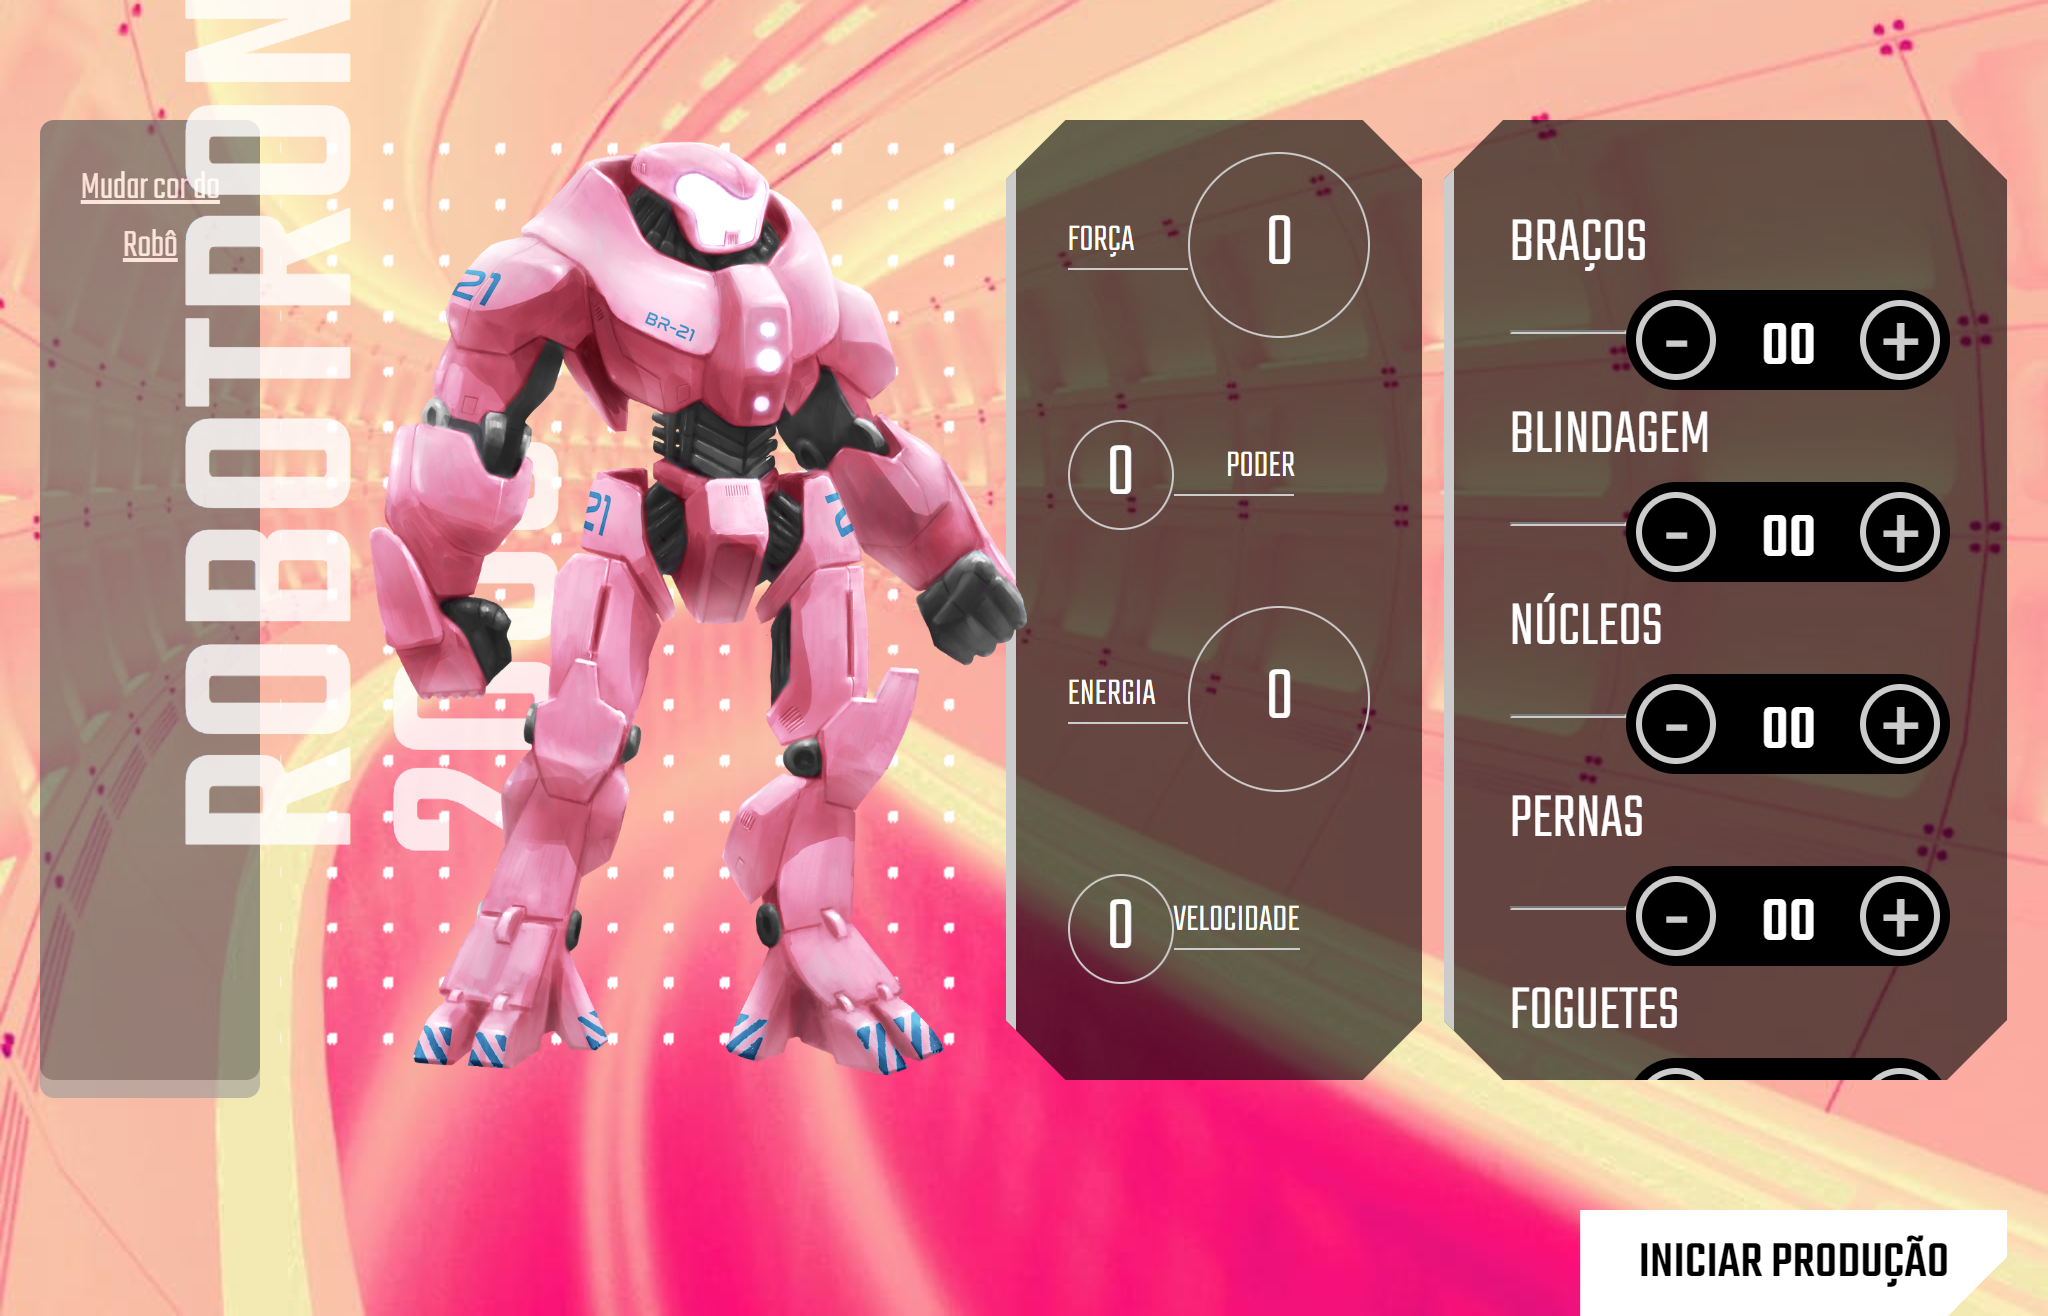
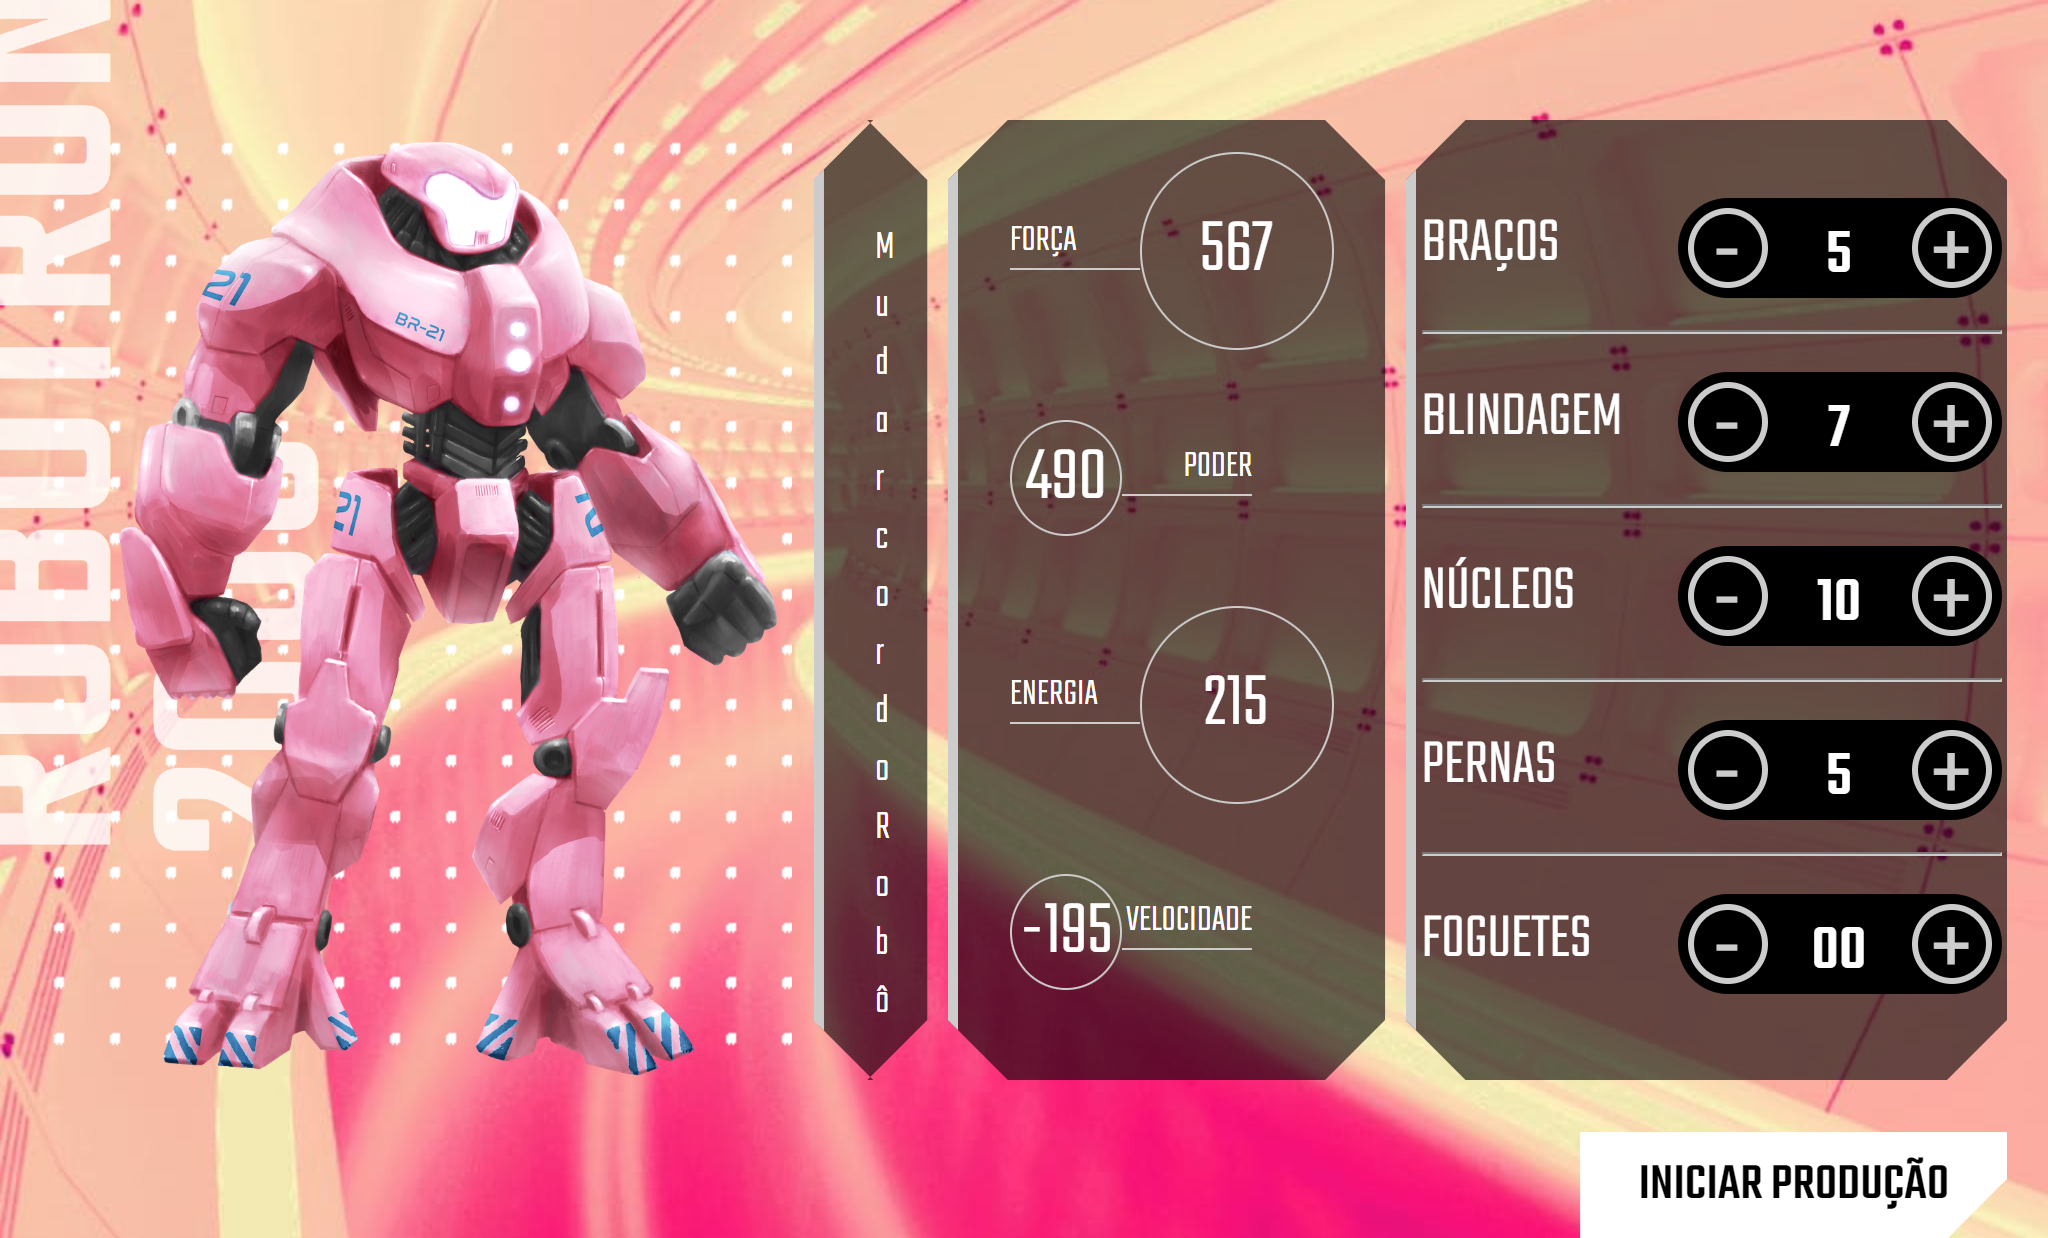
button changes

diff --git a/css/style.css b/css/style.css
@@ -84,7 +84,7 @@ main {
 }
 
 .montador-conteudo {
-  padding: 2em 10%;
+  padding: 1em 10%;
 }
 
 .peca {
@@ -245,17 +245,20 @@ main {
 .robotron{
     cursor: pointer; 
 }
-
-
-a  {
-  background-color: #555555;
+#click{
+  text-decoration: none;
+  white-space: pre-wrap;
+  width:1px;
+  word-wrap: break-word;
   border-radius: 7px;
   color: white;
-  padding: 20px 10px;
-  text-align: center;
+  padding:21px 26px;
+  text-align:center;
   font-size: 20px;
-  opacity: 0.6;
   cursor: pointer;
   box-shadow: 0 9px #999;
- 
+  background: rgba(0, 0, 0, 0.6);
+  clip-path: polygon( calc(100% - 30px) 0, 100% 30px, 100% calc(100% - 30px), calc(100% - 30px) 100%, 30px 100%, 0 calc(100% - 30px), 0 30px, 30px 0 );
+  height: 100%;
+  border-left: 5px solid var(--main-cinza);
 }

diff --git a/index.html b/index.html
@@ -16,18 +16,12 @@
 
 <body>
     <main>
-        <a onclick="trocar()" id="click" href="#">Mudar cor do Robô </a> 
         <section class="robotron">
-            <br>
-            <br>
-            <br>
-            <br>
-            <br>
-            <br>
              <img  onclick="trocar()"  class="robo" src="./img/robô-img/rosa.png" alt="Robotron" id="clickImagem">
             <figcaption class="titulo">ROBOTRON <br>2000</figcaption>
         </section>
 
+          <a onclick="trocar()" id="click" href="#"> Mudar cor do Robô </a> 
         <section class="box estatisticas">
             <div class="estatistica">
                 <p class="estatistica-titulo">Força</p>
